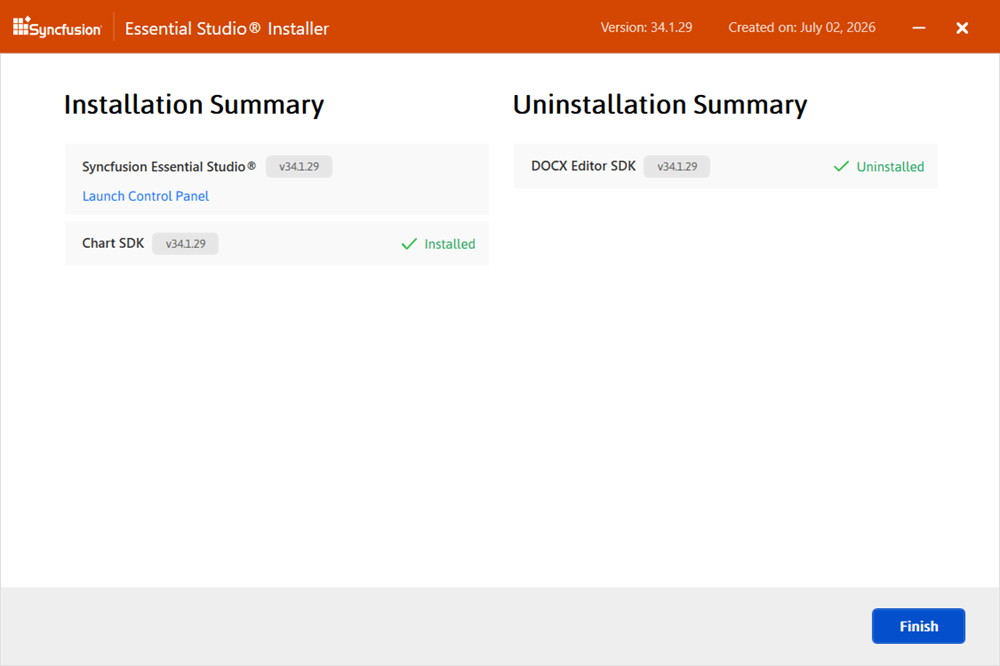
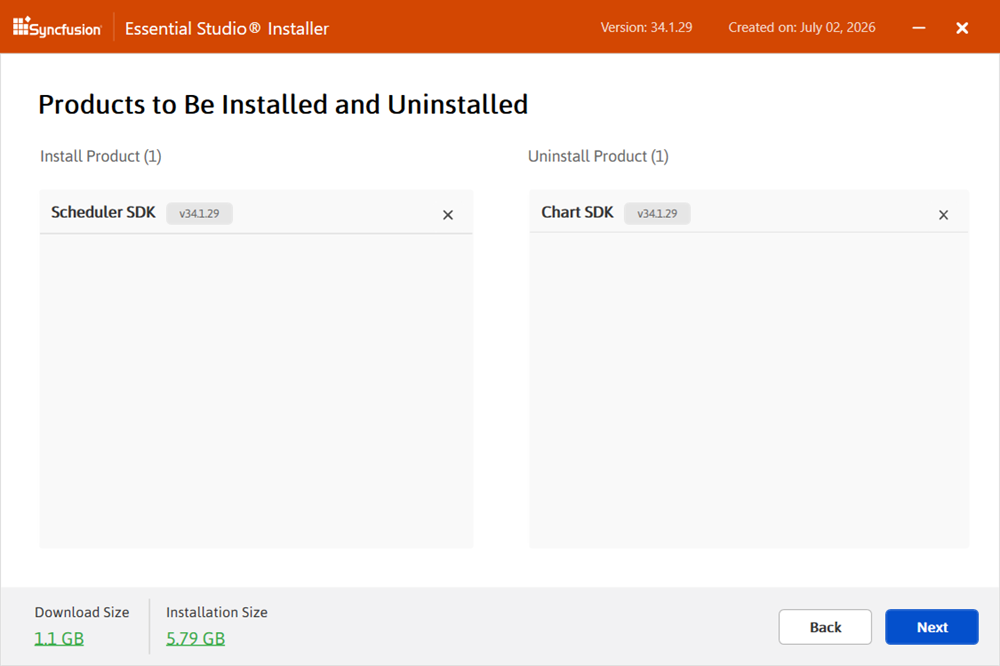
Added UG Image and .md file for Grid, Scheduler, RTE, Gantt, File Manager and Diagram SDK

diff --git a/chart-sdk/installation/offline-installer/how-to-install.md b/chart-sdk/installation/offline-installer/how-to-install.md
@@ -71,7 +71,7 @@ The steps below show how to install the Essential Studio Chart SDK installer.
 5.	If any previous versions of the current product is installed, the Uninstall Previous Version(s) wizard will be opened. Select **Uninstall** checkbox to uninstall the previous versions and then click the Proceed button.
 
 
-    ![Advanced options](images/Step-by-Step-Installation_img7.png)
+    ![Advanced options](images/Step-by-Step-Installation_img5.png)
 	
 	
 	N> From the 2021 Volume 1 release, Syncfusion has added the option to uninstall previous versions from 18.1 while installing the new version.
@@ -85,11 +85,11 @@ The steps below show how to install the Essential Studio Chart SDK installer.
 	
 	**Uninstall Progress:**
 	
-	![Uninstalling wizard](images/Step-by-Step-Installation_img9.png)
+	![Uninstalling wizard](images/Step-by-Step-Installation_img7.png)
 	
 	**Install Progress**
 	
-	![Installing wizard](images/Step-by-Step-Installation_img5.png)
+	![Installing wizard](images/Step-by-Step-Installation_img9.png)
 
     N> The Completed screen is displayed once the Chart SDK product is installed. If any version is selected to uninstall, The completed screen will display both install and uninstall status.
 	

diff --git a/chart-sdk/installation/web-installer/how-to-install.md b/chart-sdk/installation/web-installer/how-to-install.md
@@ -121,7 +121,7 @@ Follow either one of the option below to uninstall Syncfusion Essential Studio C
 
 Syncfusion provides the option to uninstall products of the same version directly from the Web Installer application. Select the products to be uninstalled from the list, and Web Installer will uninstall them one by one.
 
-![Platform Selection wizard Installed](images/Step-by-Step-Installation_img4.png)
+![Platform Selection wizard Installed](images/Step-by-Step-Installation_img12.png)
 	
 	
 **Option 2: Uninstall the Chart SDK from Windows Control Panel**  